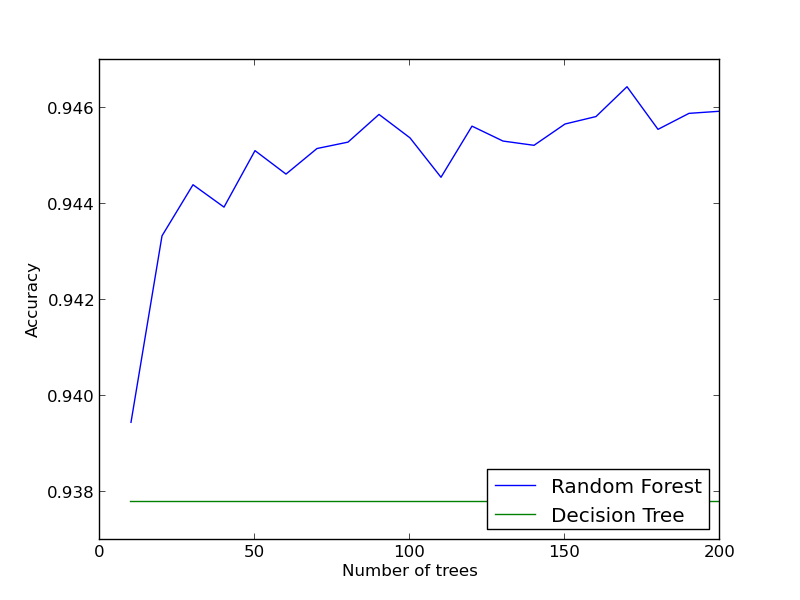
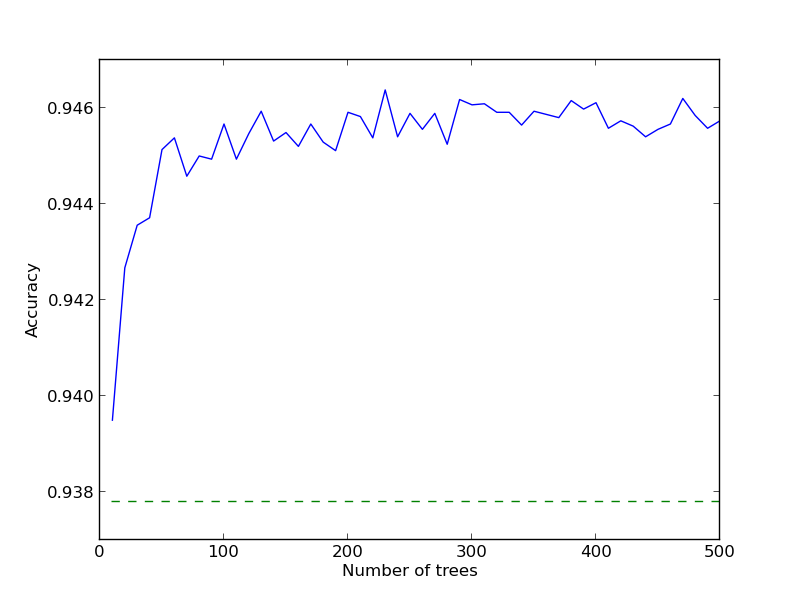
proj1 done

diff --git a/proj1/boosting.py b/proj1/boosting.py
@@ -13,8 +13,13 @@ relation = 1
 
 def classify(x, y, cv, n_estimator=50):
     acc, prec, recall = [], [], []
-    base_clf = DecisionTreeClassifier()
-    clf = AdaBoostClassifier(n_estimators=n_estimator)
+    base_clf = DecisionTreeClassifier(compute_importances=None, criterion='entropy',
+            max_depth=1, max_features=None, max_leaf_nodes=None,
+            min_density=None, min_samples_leaf=1, min_samples_split=2,
+            random_state=None, splitter='best')
+    
+    global clf
+    clf = AdaBoostClassifier(base_estimator=base_clf, n_estimators=n_estimator)
     for train, test in cv:
         x_train, x_test, y_train, y_test = x[train] , x[test] , y[train] , y[test]
         clf = clf.fit(x_train, y_train)
@@ -31,7 +36,7 @@ def classify(x, y, cv, n_estimator=50):
 def main():
     x, y = load_data(k=2)
     kf = cross_validation.KFold(len(x), n_fold)
-    a, p, r, f = classify(x, y, kf, n_estimator=10)
+    a, p, r, f = classify(x, y, kf, n_estimator=50)
     print 'precision: {}'.format(p)
     print "recall: {}".format(r)
     print "f1: {}".format(f)

diff --git a/proj1/plot_rf.py b/proj1/plot_rf.py
@@ -16,10 +16,10 @@ for i in xrange(4):
     ref = [baseline[i] for j in xrange(len(d))]
     plt.clf()
     plt.plot(idx, d, label='Random Forest')
-    plt.plot(idx, ref, label='Decision Tree')
+    plt.plot(idx, ref, '--')
     plt.xlabel("Number of trees")
     plt.ylabel(labels[i])
-    plt.legend(numpoints=1, loc=4)
+#     plt.legend(numpoints=1, loc=4)
     plt.savefig('figs/compare_{}.png'.format(labels[i]))
 #     plt.show()
     plt.close()
